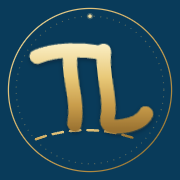
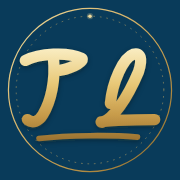
feat: cursive TL monogram — calligraphy letterforms from the ink reference
Replaces the curvy monoline with genuine cursive handwriting, taking the
T and L letterforms directly from public/test_cursive.svg (the ink
reference): T's swash crossbar with hooked finish + curled descending
stem, and a single continuous cursive L (apex loop, full sweep, bottom
loop, long baseline tail). The reference's flowing underline becomes
the emblem's calligraphic swash, replacing the old road ribbon.

Same write-on signature animation (crossbar -> stem -> L -> underline,
0.3-1.9s) with pen-tip glints retracing every 7s; ring draw-in and
transit orbit kept. Static favicon variant opens the terminal loops and
widens the L counter so stroke 32 stays crisp at small sizes (5.1% gold
at 16px, matching the previous set). All PNGs/ICO/apple-touch
regenerated; favicon cache-bust bumped to v3.

Verified: progressive draw 0.1% -> 8.3% (16.4% letters region),
liveness 3.4k-5k px; header 4.9% gold @48px; loader logo-only overlay,
gold profile 0% -> 7.2% in-app, unmounts after route; footer bare
emblem 4.8%. Tests 8/8, build green.

diff --git a/pages/_document.js b/pages/_document.js
@@ -4,12 +4,12 @@ export default function Document() {
   return (
     <Html>
       <Head>
-        <link rel="shortcut icon" href="/favicon.ico?v=2" />
-        <link rel="icon" type="image/x-icon" href="/favicon.ico?v=2" />
-        <link rel="icon" type="image/svg+xml" href="/favicon.svg?v=2" />
-        <link rel="icon" type="image/png" sizes="32x32" href="/favicon-32x32.png?v=2" />
-        <link rel="icon" type="image/png" sizes="16x16" href="/favicon-16x16.png?v=2" />
-        <link rel="apple-touch-icon" sizes="180x180" href="/apple-touch-icon.png?v=2" />
+        <link rel="shortcut icon" href="/favicon.ico?v=3" />
+        <link rel="icon" type="image/x-icon" href="/favicon.ico?v=3" />
+        <link rel="icon" type="image/svg+xml" href="/favicon.svg?v=3" />
+        <link rel="icon" type="image/png" sizes="32x32" href="/favicon-32x32.png?v=3" />
+        <link rel="icon" type="image/png" sizes="16x16" href="/favicon-16x16.png?v=3" />
+        <link rel="apple-touch-icon" sizes="180x180" href="/apple-touch-icon.png?v=3" />
         <link rel="preconnect" href="https://fonts.googleapis.com" />
         <link rel="preconnect" href="https://fonts.gstatic.com" crossOrigin="true" />
         <link href="https://fonts.googleapis.com/css2?family=Plus+Jakarta+Sans:wght@400;500;600;700;800&display=swap" rel="stylesheet" />

diff --git a/src/components/Layout/Metadata.jsx b/src/components/Layout/Metadata.jsx
@@ -20,12 +20,12 @@ export const SiteMetadata = ({
       <meta name="theme-color" content="#0369A1" />
       <meta name="color-scheme" content="light" />
 
-      <link rel="shortcut icon" href="/favicon.ico?v=2" />
-      <link rel="icon" type="image/x-icon" href="/favicon.ico?v=2" />
-      <link rel="icon" type="image/svg+xml" href="/favicon.svg?v=2" />
-      <link rel="icon" type="image/png" sizes="32x32" href="/favicon-32x32.png?v=2" />
-      <link rel="icon" type="image/png" sizes="16x16" href="/favicon-16x16.png?v=2" />
-      <link rel="apple-touch-icon" sizes="180x180" href="/apple-touch-icon.png?v=2" />
+      <link rel="shortcut icon" href="/favicon.ico?v=3" />
+      <link rel="icon" type="image/x-icon" href="/favicon.ico?v=3" />
+      <link rel="icon" type="image/svg+xml" href="/favicon.svg?v=3" />
+      <link rel="icon" type="image/png" sizes="32x32" href="/favicon-32x32.png?v=3" />
+      <link rel="icon" type="image/png" sizes="16x16" href="/favicon-16x16.png?v=3" />
+      <link rel="apple-touch-icon" sizes="180x180" href="/apple-touch-icon.png?v=3" />
       <link rel="manifest" href="/site.webmanifest" />
 
       <meta property="og:type" content="website" />
